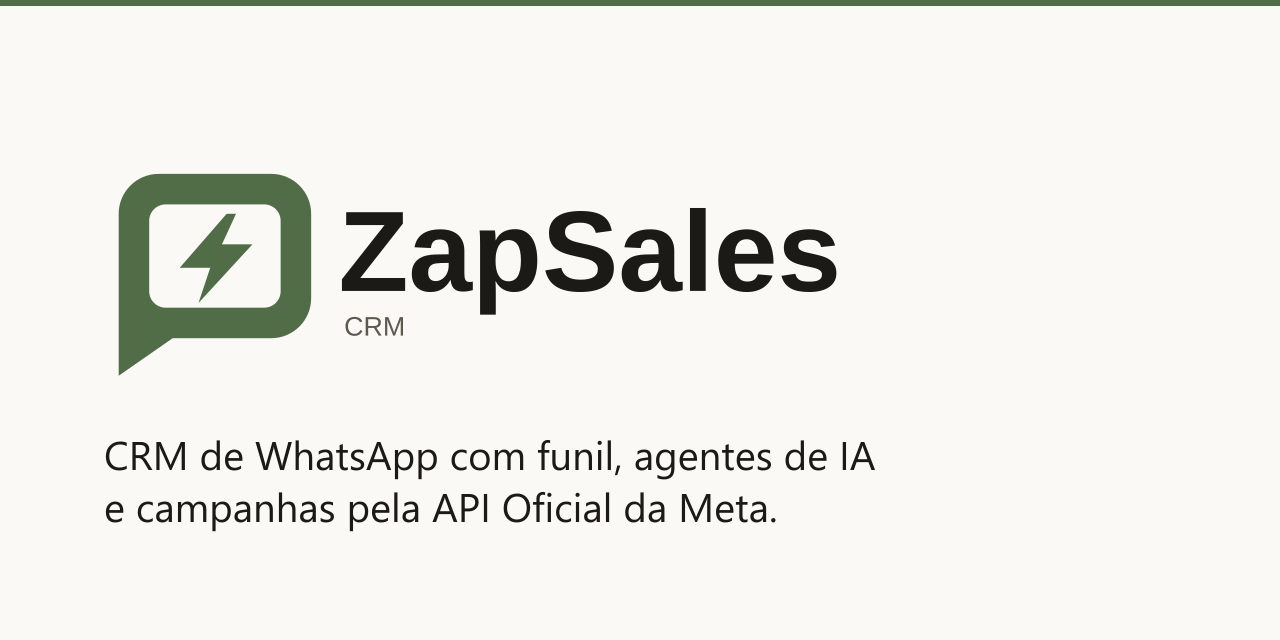
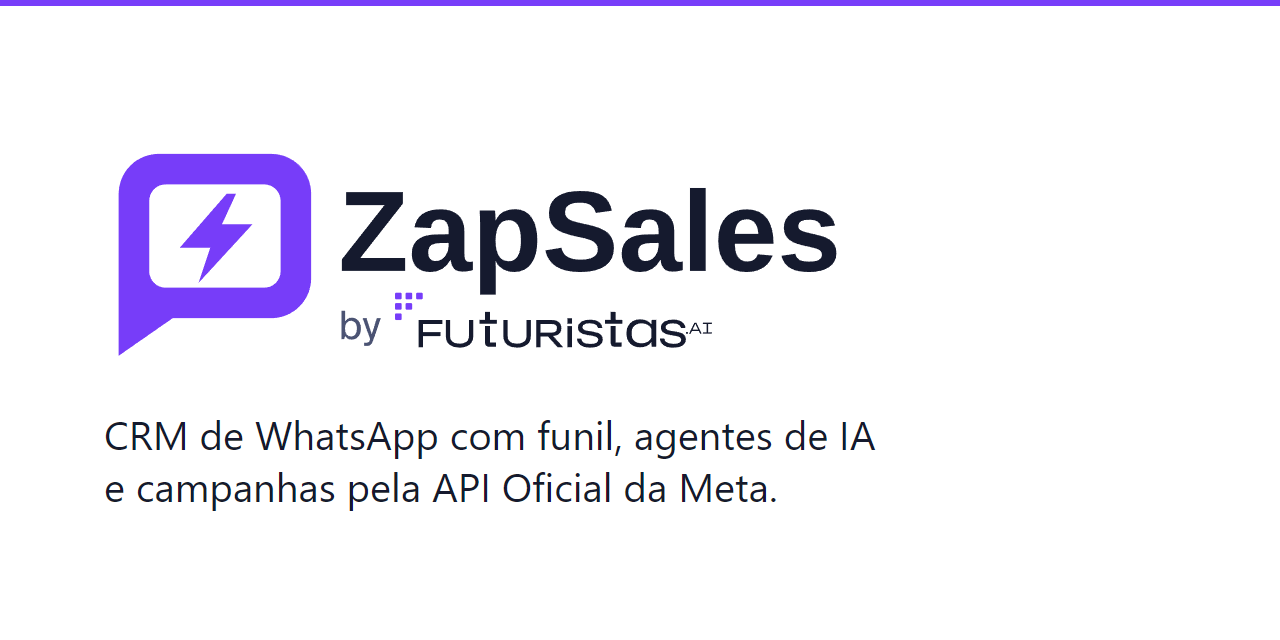
Marca: prévia social (og-card) também na arte vigente
og-card.svg e og-social-preview.png ainda estavam em sálvia com "CRM".
Regerados com o logotipo violeta "by Futuristas" sobre fundo branco; o PNG
sai do próprio SVG (1280×640). README ajustado à paleta.

Changed region(s): [[0.0938, 0.2188, 0.6562, 0.5938], [0.0625, 0.6562, 0.6875, 0.8438], [0.0, 0.0, 1.0, 0.0312]]

diff --git a/docs/brand/README.md b/docs/brand/README.md
@@ -45,6 +45,6 @@ consegue atualizar quando o posicionamento muda.
 
 ## Regras da arte
 
-- Paleta lida de `app/globals.css` (creme `#faf9f6`, sálvia `#506d48`, texto `#1c1a16`).
+- Paleta da Futuristas (fundo branco, violeta `#773df9`, texto `#151a2e`) — a mesma do logotipo.
 - Card de compartilhamento **sempre** carrega o logotipo. Sem ele, quem vê a imagem não
   sabe de quem ela é.
